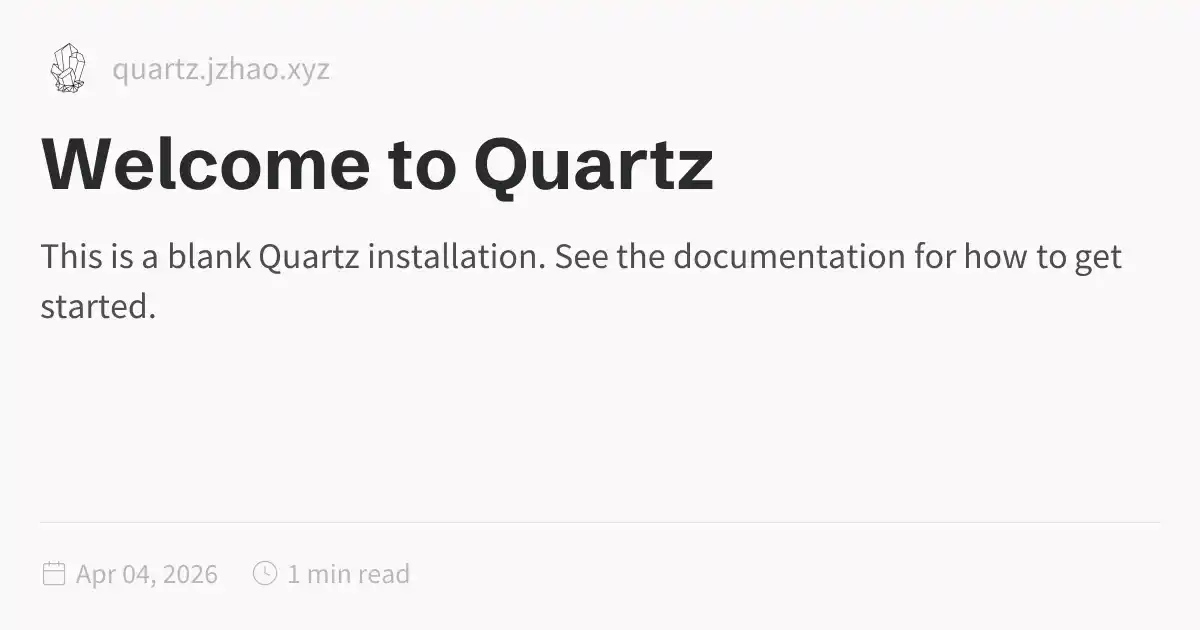
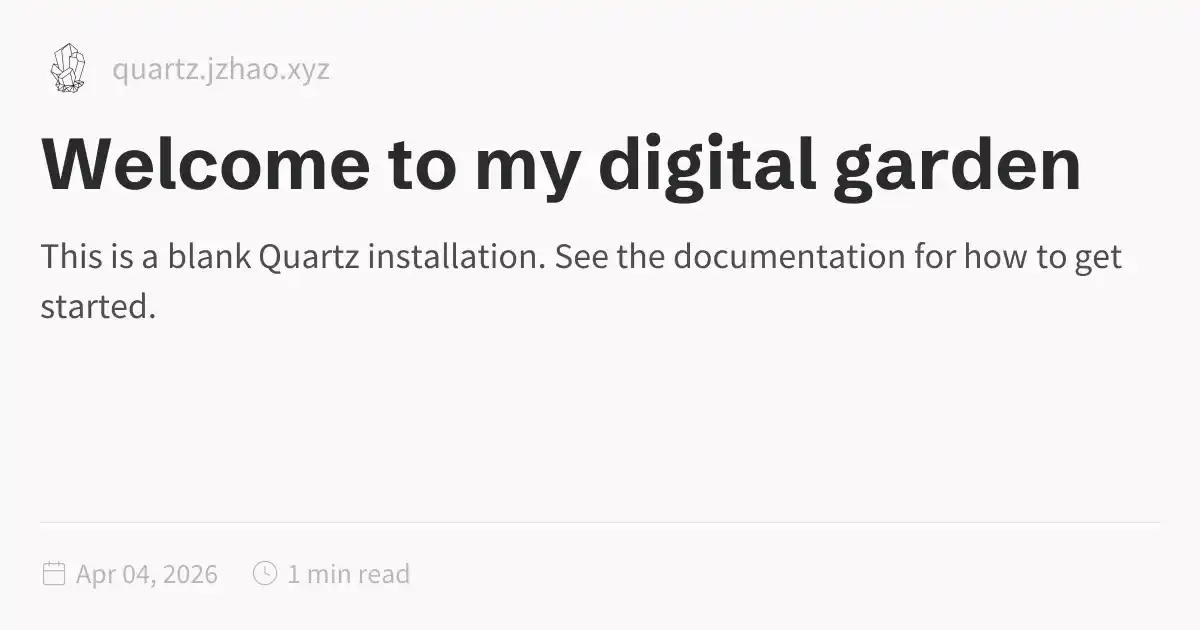
Quartz sync: Apr 4, 2026, 2:46 PM

Changed region(s): [[0.4008, 0.2111, 0.925, 0.3317]]

diff --git a/public/index.html b/public/index.html
@@ -1,5 +1,5 @@
 <!DOCTYPE html>
-<html lang="en" dir="ltr"><head><title>Welcome to Quartz</title><meta charset="utf-8"/><link rel="preconnect" href="https://fonts.googleapis.com"/><link rel="preconnect" href="https://fonts.gstatic.com"/><link rel="stylesheet" href="https://fonts.googleapis.com/css2?family=Schibsted Grotesk:wght@400;700&amp;family=Source Sans Pro:ital,wght@0,400;0,600;1,400;1,600&amp;family=IBM Plex Mono:wght@400;600&amp;display=swap"/><link rel="preconnect" href="https://cdnjs.cloudflare.com" crossorigin="anonymous"/><meta name="viewport" content="width=device-width, initial-scale=1.0"/><meta name="og:site_name" content="Quartz 4"/><meta property="og:title" content="Welcome to Quartz"/><meta property="og:type" content="website"/><meta name="twitter:card" content="summary_large_image"/><meta name="twitter:title" content="Welcome to Quartz"/><meta name="twitter:description" content="This is a blank Quartz installation. See the documentation for how to get started."/><meta property="og:description" content="This is a blank Quartz installation. See the documentation for how to get started."/><meta property="og:image:alt" content="This is a blank Quartz installation. See the documentation for how to get started."/><meta property="twitter:domain" content="quartz.jzhao.xyz"/><meta property="og:url" content="https://quartz.jzhao.xyz/index"/><meta property="twitter:url" content="https://quartz.jzhao.xyz/index"/><link rel="icon" href="./static/icon.png"/><meta name="description" content="This is a blank Quartz installation. See the documentation for how to get started."/><meta name="generator" content="Quartz"/><link href="./index.css" rel="stylesheet" type="text/css" data-persist="true"/><style>.expand-button {
+<html lang="en" dir="ltr"><head><title>Welcome to my digital garden</title><meta charset="utf-8"/><link rel="preconnect" href="https://fonts.googleapis.com"/><link rel="preconnect" href="https://fonts.gstatic.com"/><link rel="stylesheet" href="https://fonts.googleapis.com/css2?family=Schibsted Grotesk:wght@400;700&amp;family=Source Sans Pro:ital,wght@0,400;0,600;1,400;1,600&amp;family=IBM Plex Mono:wght@400;600&amp;display=swap"/><link rel="preconnect" href="https://cdnjs.cloudflare.com" crossorigin="anonymous"/><meta name="viewport" content="width=device-width, initial-scale=1.0"/><meta name="og:site_name" content="Quartz 4"/><meta property="og:title" content="Welcome to my digital garden"/><meta property="og:type" content="website"/><meta name="twitter:card" content="summary_large_image"/><meta name="twitter:title" content="Welcome to my digital garden"/><meta name="twitter:description" content="This is a blank Quartz installation. See the documentation for how to get started."/><meta property="og:description" content="This is a blank Quartz installation. See the documentation for how to get started."/><meta property="og:image:alt" content="This is a blank Quartz installation. See the documentation for how to get started."/><meta property="twitter:domain" content="quartz.jzhao.xyz"/><meta property="og:url" content="https://quartz.jzhao.xyz/index"/><meta property="twitter:url" content="https://quartz.jzhao.xyz/index"/><link rel="icon" href="./static/icon.png"/><meta name="description" content="This is a blank Quartz installation. See the documentation for how to get started."/><meta name="generator" content="Quartz"/><link href="./index.css" rel="stylesheet" type="text/css" data-persist="true"/><style>.expand-button {
   position: absolute;
   display: flex;
   float: right;
@@ -115,7 +115,7 @@ pre:hover > .expand-button {
   padding: 0 12px;
   font-size: 14px;
 }
[2 lines of base64/hex data omitted]
 See the <a href="https://quartz.jzhao.xyz" class="external">documentation<svg aria-hidden="true" class="external-icon" style="max-width:0.8em;max-height:0.8em;" viewBox="0 0 512 512"><path d="M320 0H288V64h32 82.7L201.4 265.4 178.7 288 224 333.3l22.6-22.6L448 109.3V192v32h64V192 32 0H480 320zM32 32H0V64 480v32H32 456h32V480 352 320H424v32 96H64V96h96 32V32H160 32z"></path></svg></a> for how to get started.</p></article><hr/><div class="page-footer"></div></div><div class="right sidebar"><div class="graph"><h3>Graph View</h3><div class="graph-outer"><div class="graph-container" data-cfg="{&quot;drag&quot;:true,&quot;zoom&quot;:true,&quot;depth&quot;:1,&quot;scale&quot;:1.1,&quot;repelForce&quot;:0.5,&quot;centerForce&quot;:0.3,&quot;linkDistance&quot;:30,&quot;fontSize&quot;:0.6,&quot;opacityScale&quot;:1,&quot;showTags&quot;:true,&quot;removeTags&quot;:[],&quot;focusOnHover&quot;:false,&quot;enableRadial&quot;:false}"></div><button class="global-graph-icon" aria-label="Global Graph"><svg version="1.1" xmlns="http://www.w3.org/2000/svg" xmlns:xlink="http://www.w3.org/1999/xlink" x="0px" y="0px" viewBox="0 0 55 55" fill="currentColor" xml:space="preserve"><path d="M49,0c-3.309,0-6,2.691-6,6c0,1.035,0.263,2.009,0.726,2.86l-9.829,9.829C32.542,17.634,30.846,17,29,17
                 s-3.542,0.634-4.898,1.688l-7.669-7.669C16.785,10.424,17,9.74,17,9c0-2.206-1.794-4-4-4S9,6.794,9,9s1.794,4,4,4
                 c0.74,0,1.424-0.215,2.019-0.567l7.669,7.669C21.634,21.458,21,23.154,21,25s0.634,3.542,1.688,4.897L10.024,42.562

diff --git a/public/tags/index.html b/public/tags/index.html
@@ -115,7 +115,7 @@ pre:hover > .expand-button {
   padding: 0 12px;
   font-size: 14px;
 }
[2 lines of base64/hex data omitted]
 </script><script type="module" data-persist="true">function E(a,e){if(!a)return;function t(o){o.target===this&&(o.preventDefault(),o.stopPropagation(),e())}function n(o){o.key.startsWith("Esc")&&(o.preventDefault(),e())}a?.addEventListener("click",t),window.addCleanup(()=>a?.removeEventListener("click",t)),document.addEventListener("keydown",n),window.addCleanup(()=>document.removeEventListener("keydown",n))}function f(a){for(;a.firstChild;)a.removeChild(a.firstChild)}var m=class{constructor(e,t){this.container=e;this.content=t;this.setupEventListeners(),this.setupNavigationControls(),this.resetTransform()}isDragging=!1;startPan={x:0,y:0};currentPan={x:0,y:0};scale=1;MIN_SCALE=.5;MAX_SCALE=3;cleanups=[];setupEventListeners(){let e=this.onMouseDown.bind(this),t=this.onMouseMove.bind(this),n=this.onMouseUp.bind(this),o=this.onTouchStart.bind(this),r=this.onTouchMove.bind(this),i=this.onTouchEnd.bind(this),s=this.resetTransform.bind(this);this.container.addEventListener("mousedown",e),document.addEventListener("mousemove",t),document.addEventListener("mouseup",n),this.container.addEventListener("touchstart",o,{passive:!1}),document.addEventListener("touchmove",r,{passive:!1}),document.addEventListener("touchend",i),window.addEventListener("resize",s),this.cleanups.push(()=>this.container.removeEventListener("mousedown",e),()=>document.removeEventListener("mousemove",t),()=>document.removeEventListener("mouseup",n),()=>this.container.removeEventListener("touchstart",o),()=>document.removeEventListener("touchmove",r),()=>document.removeEventListener("touchend",i),()=>window.removeEventListener("resize",s))}cleanup(){for(let e of this.cleanups)e()}setupNavigationControls(){let e=document.createElement("div");e.className="mermaid-controls";let t=this.createButton("+",()=>this.zoom(.1)),n=this.createButton("-",()=>this.zoom(-.1)),o=this.createButton("Reset",()=>this.resetTransform());e.appendChild(n),e.appendChild(o),e.appendChild(t),this.container.appendChild(e)}createButton(e,t){let n=document.createElement("button");return n.textContent=e,n.className="mermaid-control-button",n.addEventListener("click",t),window.addCleanup(()=>n.removeEventListener("click",t)),n}onMouseDown(e){e.button===0&&(this.isDragging=!0,this.startPan={x:e.clientX-this.currentPan.x,y:e.clientY-this.currentPan.y},this.container.style.cursor="grabbing")}onMouseMove(e){this.isDragging&&(e.preventDefault(),this.currentPan={x:e.clientX-this.startPan.x,y:e.clientY-this.startPan.y},this.updateTransform())}onMouseUp(){this.isDragging=!1,this.container.style.cursor="grab"}onTouchStart(e){if(e.touches.length!==1)return;this.isDragging=!0;let t=e.touches[0];this.startPan={x:t.clientX-this.currentPan.x,y:t.clientY-this.currentPan.y}}onTouchMove(e){if(!this.isDragging||e.touches.length!==1)return;e.preventDefault();let t=e.touches[0];this.currentPan={x:t.clientX-this.startPan.x,y:t.clientY-this.startPan.y},this.updateTransform()}onTouchEnd(){this.isDragging=!1}zoom(e){let t=Math.min(Math.max(this.scale+e,this.MIN_SCALE),this.MAX_SCALE),n=this.content.getBoundingClientRect(),o=n.width/2,r=n.height/2,i=t-this.scale;this.currentPan.x-=o*i,this.currentPan.y-=r*i,this.scale=t,this.updateTransform()}updateTransform(){this.content.style.transform=`translate(${this.currentPan.x}px, ${this.currentPan.y}px) scale(${this.scale})`}resetTransform(){let t=this.content.querySelector("svg").getBoundingClientRect(),n=t.width/this.scale,o=t.height/this.scale;this.scale=1,this.currentPan={x:(this.container.clientWidth-n)/2,y:(this.container.clientHeight-o)/2},this.updateTransform()}},T=["--secondary","--tertiary","--gray","--light","--lightgray","--highlight","--dark","--darkgray","--codeFont"],y;document.addEventListener("nav",async()=>{let e=document.querySelector(".center").querySelectorAll("code.mermaid");if(e.length===0)return;y||=await import("https://cdnjs.cloudflare.com/ajax/libs/mermaid/11.4.0/mermaid.esm.min.mjs");let t=y.default,n=new WeakMap;for(let r of e)n.set(r,r.innerText);async function o(){for(let s of e){s.removeAttribute("data-processed");let c=n.get(s);c&&(s.innerHTML=c)}let r=T.reduce((s,c)=>(s[c]=window.getComputedStyle(document.documentElement).getPropertyValue(c),s),{}),i=document.documentElement.getAttribute("saved-theme")==="dark";t.initialize({startOnLoad:!1,securityLevel:"loose",theme:i?"dark":"base",themeVariables:{fontFamily:r["--codeFont"],primaryColor:r["--light"],primaryTextColor:r["--darkgray"],primaryBorderColor:r["--tertiary"],lineColor:r["--darkgray"],secondaryColor:r["--secondary"],tertiaryColor:r["--tertiary"],clusterBkg:r["--light"],edgeLabelBackground:r["--highlight"]}}),await t.run({nodes:e})}await o(),document.addEventListener("themechange",o),window.addCleanup(()=>document.removeEventListener("themechange",o));for(let r=0;r<e.length;r++){let v=function(){let g=l.querySelector("#mermaid-space"),h=l.querySelector(".mermaid-content");if(!h)return;f(h);let w=i.querySelector("svg").cloneNode(!0);h.appendChild(w),l.classList.add("active"),g.style.cursor="grab",u=new m(g,h)},M=function(){l.classList.remove("active"),u?.cleanup(),u=null},i=e[r],s=i.parentElement,c=s.querySelector(".clipboard-button"),d=s.querySelector(".expand-button"),p=window.getComputedStyle(c),L=c.offsetWidth+parseFloat(p.marginLeft||"0")+parseFloat(p.marginRight||"0");d.style.right=`calc(${L}px + 0.3rem)`,s.prepend(d);let l=s.querySelector("#mermaid-container");if(!l)return;let u=null;d.addEventListener("click",v),E(l,M),window.addCleanup(()=>{u?.cleanup(),d.removeEventListener("click",v)})}});
 </script><script src="https://cdn.jsdelivr.net/npm/katex@0.16.11/dist/contrib/copy-tex.min.js" type="application/javascript" data-persist="true"></script><script type="application/javascript" data-persist="true">
         const socket = new WebSocket('ws://localhost:3001')

diff --git a/content/index.md b/content/index.md
@@ -1,5 +1,5 @@
 ---
-title: Welcome to Quartz
+title: Welcome to my digital garden
 ---
 
 This is a blank Quartz installation.
